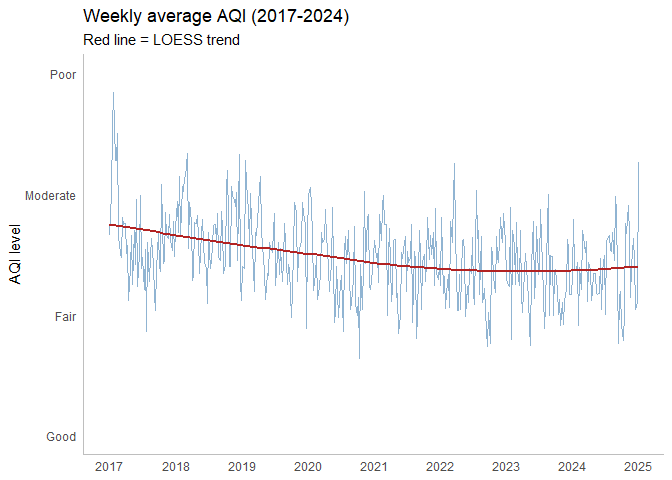
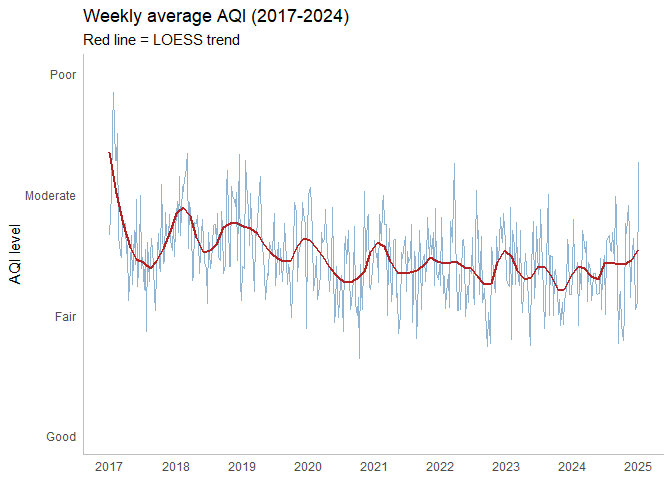
docs: re-knit project.md, pin LC_TIME for month labels

Changed region(s): [[0.4688, 0.5, 0.9375, 0.5938], [0.1562, 0.4062, 0.4688, 0.5625], [0.1875, 0.5312, 0.25, 0.5625]]

diff --git a/project.md b/project.md
@@ -24,249 +24,15 @@ if (length(missing_packages) > 0) {
 }
 
 invisible(lapply(packages, library, character.only = TRUE))
-```
 
-    ## Warning: package 'ggplot2' was built under R version 4.4.3
-
-    ## ── Attaching core tidyverse packages ──────────────────────── tidyverse 2.0.0 ──
-    ## ✔ dplyr     1.1.4     ✔ readr     2.1.5
-    ## ✔ forcats   1.0.0     ✔ stringr   1.5.1
-    ## ✔ ggplot2   4.0.3     ✔ tibble    3.2.1
-    ## ✔ lubridate 1.9.4     ✔ tidyr     1.3.1
-    ## ✔ purrr     1.0.4
-
-    ## Warning: package 'arrow' was built under R version 4.4.3
-
-    ## 
-    ## Attaching package: 'arrow'
-    ## 
-    ## The following object is masked from 'package:lubridate':
-    ## 
-    ##     duration
-    ## 
-    ## The following object is masked from 'package:utils':
-    ## 
-    ##     timestamp
-
-    ## Warning: package 'tsibble' was built under R version 4.4.3
-
-    ## 
-    ## Attaching package: 'tsibble'
-    ## 
-    ## The following object is masked from 'package:lubridate':
-    ## 
-    ##     interval
-    ## 
-    ## The following objects are masked from 'package:base':
-    ## 
-    ##     intersect, setdiff, union
-
-    ## Warning: package 'here' was built under R version 4.4.3
-
-    ## here() starts at C:/Users/Patrick/Desktop/OZNAL/oznal-project26
-
-    ## Warning: package 'corrplot' was built under R version 4.4.3
-
-    ## corrplot 0.95 loaded
-    ## 
-    ## Attaching package: 'zoo'
-    ## 
-    ## The following object is masked from 'package:tsibble':
-    ## 
-    ##     index
-    ## 
-    ## The following objects are masked from 'package:base':
-    ## 
-    ##     as.Date, as.Date.numeric
-
-    ## Warning: package 'forecast' was built under R version 4.4.3
-
-    ## Warning: package 'generics' was built under R version 4.4.3
-
-    ## 
-    ## Attaching package: 'generics'
-    ## 
-    ## The following object is masked from 'package:lubridate':
-    ## 
-    ##     as.difftime
-    ## 
-    ## The following object is masked from 'package:dplyr':
-    ## 
-    ##     explain
-    ## 
-    ## The following objects are masked from 'package:base':
-    ## 
-    ##     as.difftime, as.factor, as.ordered, intersect, is.element, setdiff,
-    ##     setequal, union
-
-    ## Warning: package 'fable' was built under R version 4.4.3
-
-    ## Loading required package: fabletools
-
-    ## Warning: package 'fabletools' was built under R version 4.4.3
-
-    ## Warning: package 'feasts' was built under R version 4.4.3
-
-    ## Warning: package 'ggtime' was built under R version 4.4.3
-
-    ## Warning: package 'tseries' was built under R version 4.4.3
-
-    ## Registered S3 method overwritten by 'quantmod':
-    ##   method            from
-    ##   as.zoo.data.frame zoo 
-    ## 
-    ## Attaching package: 'MASS'
-    ## 
-    ## The following object is masked from 'package:dplyr':
-    ## 
-    ##     select
-
-    ## Warning: package 'ranger' was built under R version 4.4.3
-
-    ## Warning: package 'pROC' was built under R version 4.4.3
-
-    ## Type 'citation("pROC")' for a citation.
-    ## 
-    ## Attaching package: 'pROC'
-    ## 
-    ## The following objects are masked from 'package:stats':
-    ## 
-    ##     cov, smooth, var
-
-    ## Warning: package 'performance' was built under R version 4.4.3
-
-    ## Warning: package 'brant' was built under R version 4.4.3
-
-    ## Warning: package 'scales' was built under R version 4.4.3
-
-    ## 
-    ## Attaching package: 'scales'
-    ## 
-    ## The following object is masked from 'package:purrr':
-    ## 
-    ##     discard
-    ## 
-    ## The following object is masked from 'package:readr':
-    ## 
-    ##     col_factor
-
-    ## Warning: package 'xgboost' was built under R version 4.4.3
-
-    ## Warning: package 'kknn' was built under R version 4.4.3
-
-    ## Warning: package 'vip' was built under R version 4.4.3
-
-    ## 
-    ## Attaching package: 'vip'
-    ## 
-    ## The following object is masked from 'package:utils':
-    ## 
-    ##     vi
-    ## 
-    ## Loading required package: carData
-    ## 
-    ## Attaching package: 'car'
-    ## 
-    ## The following object is masked from 'package:dplyr':
-    ## 
-    ##     recode
-    ## 
-    ## The following object is masked from 'package:purrr':
-    ## 
-    ##     some
-
-    ## Warning: package 'VGAM' was built under R version 4.4.3
-
-    ## Loading required package: stats4
-    ## Loading required package: splines
-
-    ## Warning: package 'patchwork' was built under R version 4.4.3
-
-    ## 
-    ## Attaching package: 'patchwork'
-    ## 
-    ## The following object is masked from 'package:MASS':
-    ## 
-    ##     area
-
-    ## Warning: package 'PRROC' was built under R version 4.4.3
-
-    ## Loading required package: rlang
-    ## 
-    ## Attaching package: 'rlang'
-    ## 
-    ## The following object is masked from 'package:arrow':
-    ## 
-    ##     string
-    ## 
-    ## The following objects are masked from 'package:purrr':
-    ## 
-    ##     %@%, flatten, flatten_chr, flatten_dbl, flatten_int, flatten_lgl,
-    ##     flatten_raw, invoke, splice
-
-    ## Warning: package 'glmnet' was built under R version 4.4.3
-
-    ## Loading required package: Matrix
-    ## 
-    ## Attaching package: 'Matrix'
-    ## 
-    ## The following objects are masked from 'package:tidyr':
-    ## 
-    ##     expand, pack, unpack
-    ## 
-    ## Loaded glmnet 4.1-10
-    ## 
-    ## Attaching package: 'rpart'
-    ## 
-    ## The following object is masked from 'package:generics':
-    ## 
-    ##     prune
-
-    ## Warning: package 'rpart.plot' was built under R version 4.4.3
-
-``` r
 conflict_prefer("filter", "dplyr")
-```
-
-    ## [conflicted] Will prefer dplyr::filter over any other package.
-
-``` r
 conflict_prefer("lag", "dplyr")
-```
-
-    ## [conflicted] Will prefer dplyr::lag over any other package.
-
-``` r
 conflict_prefer("select", "dplyr")
-```
-
-    ## [conflicted] Will prefer dplyr::select over any other package.
-
-``` r
 conflict_prefer("interval", "tsibble")
-```
-
-    ## [conflicted] Will prefer tsibble::interval over any other package.
-
-``` r
 conflict_prefer("vi", "vip")
-```
-
-    ## [conflicted] Will prefer vip::vi over any other package.
-
-``` r
 conflict_prefer("slice", "dplyr")
-```
 
-    ## [conflicted] Will prefer dplyr::slice over any other package.
-
-``` r
 here::i_am("project.Rmd")
-```
-
-    ## here() starts at C:/Users/Patrick/Desktop/OZNAL/oznal-project26
-
-``` r
 set.seed(2026) # reproducibility
 ```
 
@@ -338,13 +104,13 @@ Lets look at numeric ranges and unique values of the columns.
 summary(filtered_air_data)
 ```
 
-    ##      Start                          Pollutant        Value        
-    ##  Min.   :2017-01-01 01:00:00.00   Min.   :   1   Min.   : -3.836  
-    ##  1st Qu.:2019-01-01 10:00:00.00   1st Qu.:   5   1st Qu.:  5.410  
-    ##  Median :2020-12-29 00:30:00.00   Median :   7   Median : 12.783  
-    ##  Mean   :2020-12-29 15:50:02.91   Mean   :1223   Mean   : 21.264  
-    ##  3rd Qu.:2022-12-26 14:00:00.00   3rd Qu.:   8   3rd Qu.: 27.421  
-    ##  Max.   :2025-01-01 00:00:00.00   Max.   :6001   Max.   :657.845  
+    ##      Start                       Pollutant        Value        
+    ##  Min.   :2017-01-01 01:00:00   Min.   :   1   Min.   : -3.836  
+    ##  1st Qu.:2019-01-01 10:00:00   1st Qu.:   5   1st Qu.:  5.410  
+    ##  Median :2020-12-29 00:30:00   Median :   7   Median : 12.783  
+    ##  Mean   :2020-12-29 15:50:02   Mean   :1223   Mean   : 21.264  
+    ##  3rd Qu.:2022-12-26 14:00:00   3rd Qu.:   8   3rd Qu.: 27.421  
+    ##  Max.   :2025-01-01 00:00:00   Max.   :6001   Max.   :657.845  
     ##  Samplingpoint         Validity    
     ##  Length:338624      Min.   :1.000  
     ##  Class :character   1st Qu.:1.000  
@@ -1105,7 +871,7 @@ complete_data %>%
   summarise(AQI = mean(AQI, na.rm = TRUE), .groups = "drop") %>%
   ggplot(aes(Week, AQI)) +
   geom_line(color = "steelblue", linewidth = 0.4, alpha = 0.6) +
-  geom_smooth(method = "loess", span = 1, se = FALSE, color = "firebrick", linewidth = 1) +
+  geom_smooth(method = "loess", span = 0.1, se = FALSE, color = "firebrick", linewidth = 1) +
   scale_x_datetime(date_breaks = "1 year", date_labels = "%Y") +
   scale_y_continuous(
     breaks = 1:4,
@@ -1333,7 +1099,7 @@ tseries::kpss.test(complete_data$AQI)
     ##  KPSS Test for Level Stationarity
     ## 
     ## data:  complete_data$AQI
-    ## KPSS Level = 18.161, Truncation lag parameter = 20, p-value = 0.01
+    ## KPSS Level = 19.973, Truncation lag parameter = 20, p-value = 0.01
 
 ``` r
 tseries::kpss.test(data_season_year_day$remainder)
@@ -4461,11 +4227,11 @@ printcp(tree_B)
     ##          CP nsplit rel error  xerror      xstd
     ## 1 0.2598653      0   1.00000 1.00000 0.0040863
     ## 2 0.0069795      1   0.74013 0.74013 0.0040234
-    ## 3 0.0036057      4   0.71920 0.72114 0.0040056
-    ## 4 0.0035325      6   0.71198 0.71052 0.0039949
-    ## 5 0.0010738      9   0.70056 0.70316 0.0039871
-    ## 6 0.0010616     12   0.69734 0.70097 0.0039847
-    ## 7 0.0010000     13   0.69628 0.70056 0.0039842
+    ## 3 0.0036057      4   0.71920 0.72106 0.0040055
+    ## 4 0.0035325      6   0.71198 0.71279 0.0039972
+    ## 5 0.0010738      9   0.70056 0.70375 0.0039877
+    ## 6 0.0010616     12   0.69734 0.70294 0.0039868
+    ## 7 0.0010000     13   0.69628 0.70291 0.0039868
 
 The `xerror` stops decreasing at around 13 splits, tells us that a
 single tree on this problem exhausts its useful complexity at that
